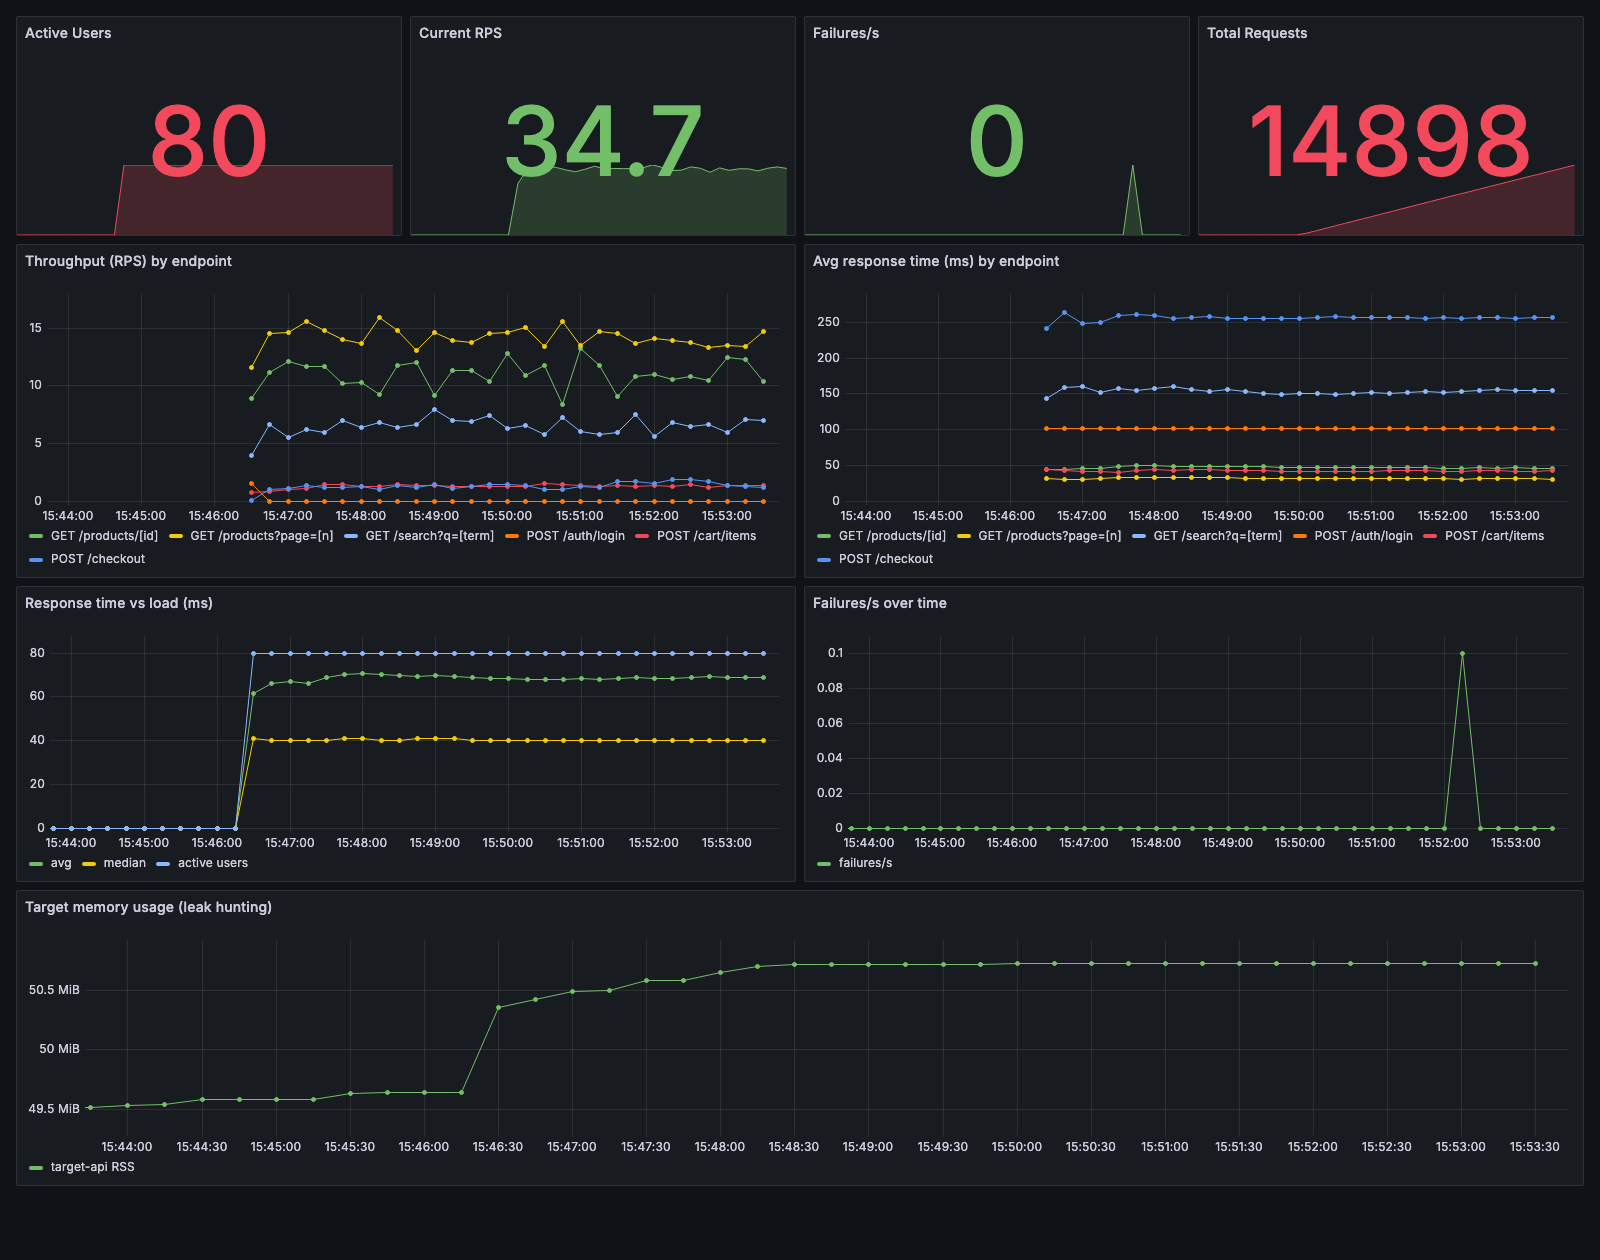
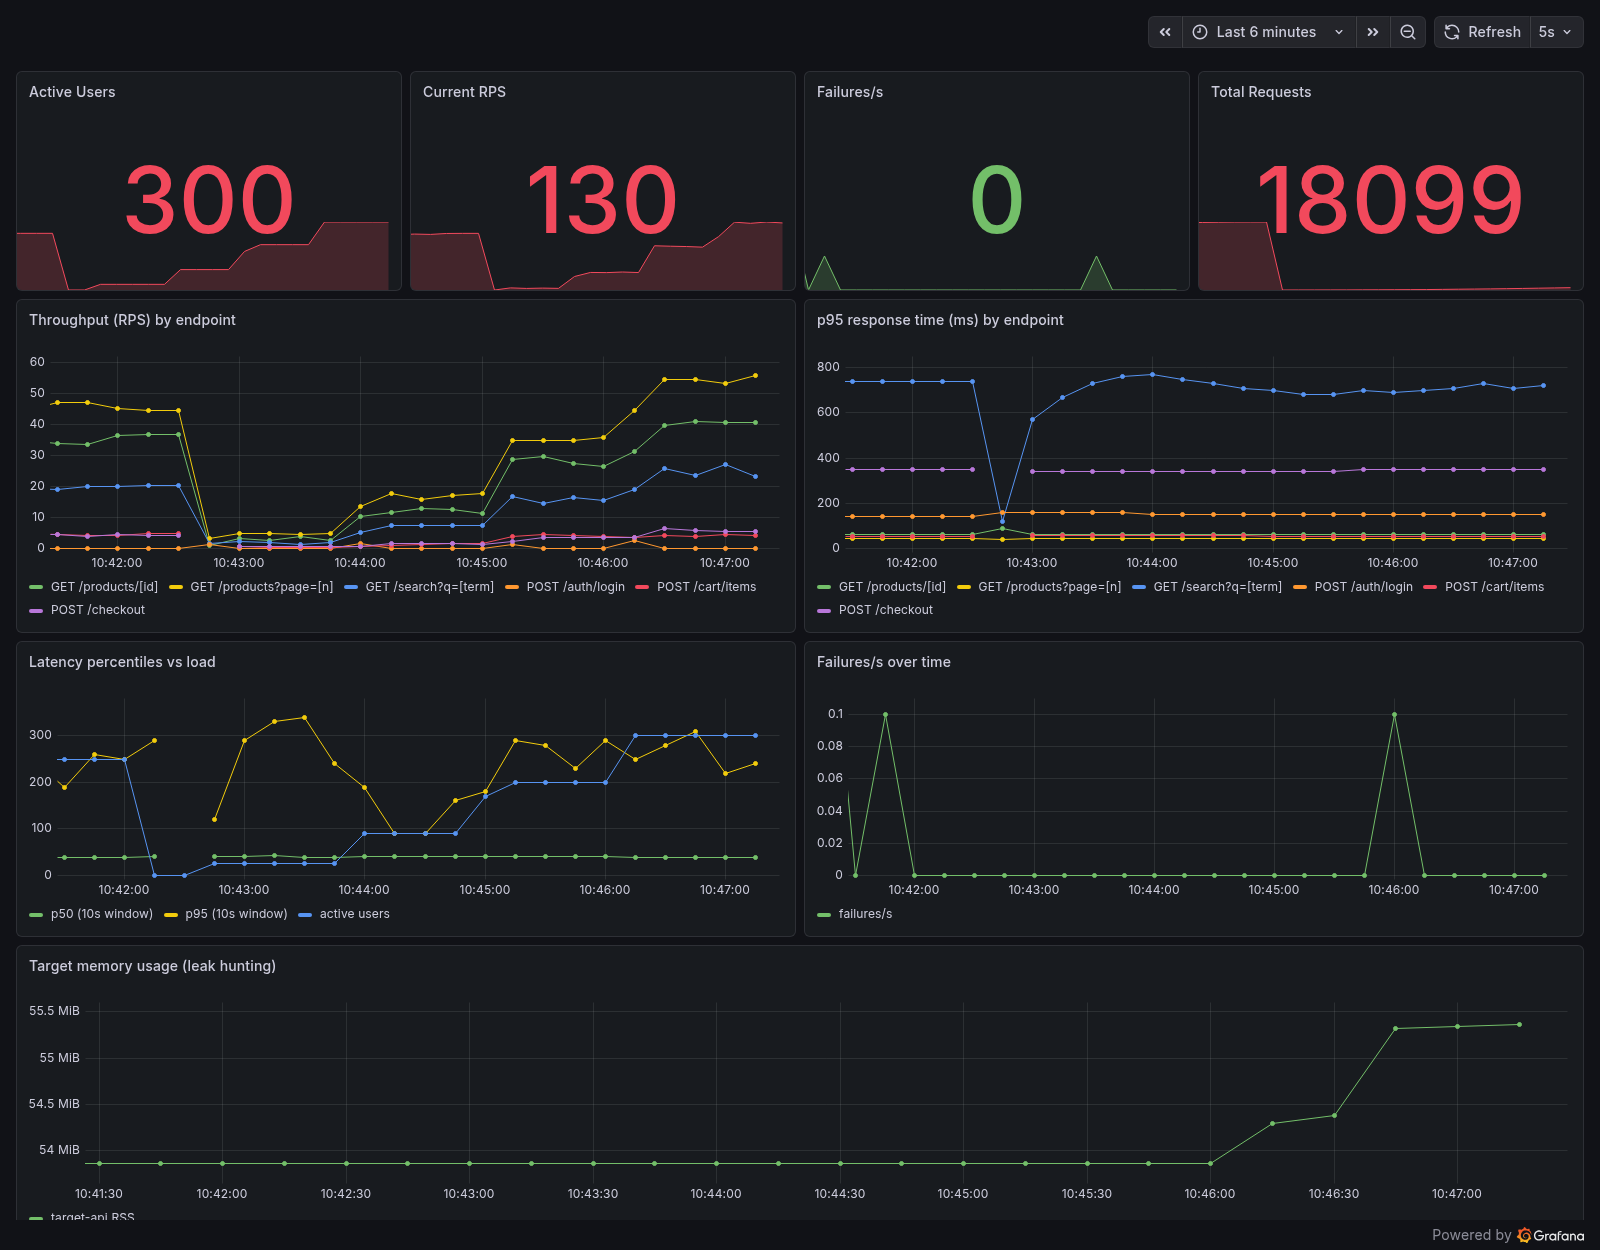
Refresh the screenshots, add server-side dashboard export
The README screenshots showed panels this branch had just replaced: the hero
image advertised "Avg response time by endpoint" while the dashboard now plots
p95. A screenshot that contradicts the thing it illustrates is worse than none.

All three are regenerated against the current stack under a stepped ramp
(25 -> 90 -> 200 -> 300 users, three workers), so they now show what the code
actually does: p95 climbing while p50 stays flat at ~40 ms, /search separating
from the rest of the catalogue at ~740 ms, and the injected checkout failures
in the # Fails column. Captions point at the reading, not the picture.

Producing them turned into a feature: `make dashboard-png` renders the live
dashboard to a PNG through Grafana's own image renderer, so a dashboard
snapshot can be attached to a ticket or a CI run without a human at a browser.
It sits behind its own compose profile, since it pulls a headless-Chrome image
that a normal `make monitoring` has no use for.

Incidentally this is also what verified the Grafana 12 upgrade. Neither
headless Chrome nor an automated browser could render the dashboard well
enough to judge it, which initially looked like a broken upgrade; rendering it
server-side showed 12.4.10 drawing every panel correctly. Worth remembering
before blaming a dependency for what is really a limitation of the harness.

diff --git a/README.md b/README.md
@@ -122,6 +122,10 @@ or watch the same run in Grafana with per-endpoint breakdowns and target memory.
 
 ![Locust web UI during a test](docs/images/locust-ui.png)
 
+Read the p95 column, not the average: `/search` averages 155 ms but its p95 is 740 ms — that's the
+15% of requests hitting a simulated cache miss, and it is invisible in the mean. `/checkout` shows
+its injected gateway failures in the `# Fails` column.
+
 ## 🧪 Test scenarios
 
 Each headless scenario produces CSV + HTML reports in `reports/` and runs the SLA gate
@@ -142,6 +146,9 @@ Every run also writes an interactive HTML report (`reports/<scenario>.html`) wit
 latency percentiles and failures over time — the artifact you attach to a ticket.
 
 ![Locust charts during a distributed run](docs/images/locust-charts.png)
+
+A stepped ramp across three workers: throughput tracks the user count, p50 stays flat at ~40 ms,
+and p95 does not — the tail is where saturation shows up first.
 
 ## 👥 Workload model
 
@@ -355,6 +362,16 @@ dashboard (`http://localhost:3000`, no login needed) shows:
 This is the same setup you'd use to watch a production load test: no waiting for the final
 report, problems are visible the moment they start.
 
+A dashboard is also evidence, so it can be exported without a human at a keyboard:
+
+```bash
+make dashboard-png                          # -> reports/dashboard.png
+make dashboard-png DASHBOARD_MINUTES=60     # a longer window, e.g. after a soak
+```
+
+Grafana renders it server-side, so this works over SSH and in CI — attach the PNG to the ticket
+next to the CSV. The screenshots in this README are produced by that target.
+
 ### A dashboard that reads zero is worse than no dashboard
 
 [`monitoring/locust_exporter.py`](monitoring/locust_exporter.py) is ~70 lines of stdlib Python
@@ -546,7 +563,7 @@ choosing the right tool and making either one a first-class citizen of the deliv
 ├── .github/workflows/ci.yml     # lint + gate tests + load test on every push/PR
 ├── .github/workflows/nightly.yml# trend comparison + memory-leak gate
 ├── .github/dependabot.yml       # weekly pin refresh, load-tested before merge
-├── docker-compose.yml           # SUT + distributed Locust + monitoring profile
+├── docker-compose.yml           # SUT + distributed Locust + monitoring/report profiles
 ├── pyproject.toml               # ruff + pytest configuration
 ├── docs/images/                 # screenshots used in this README
 └── Makefile                     # one-command scenarios
